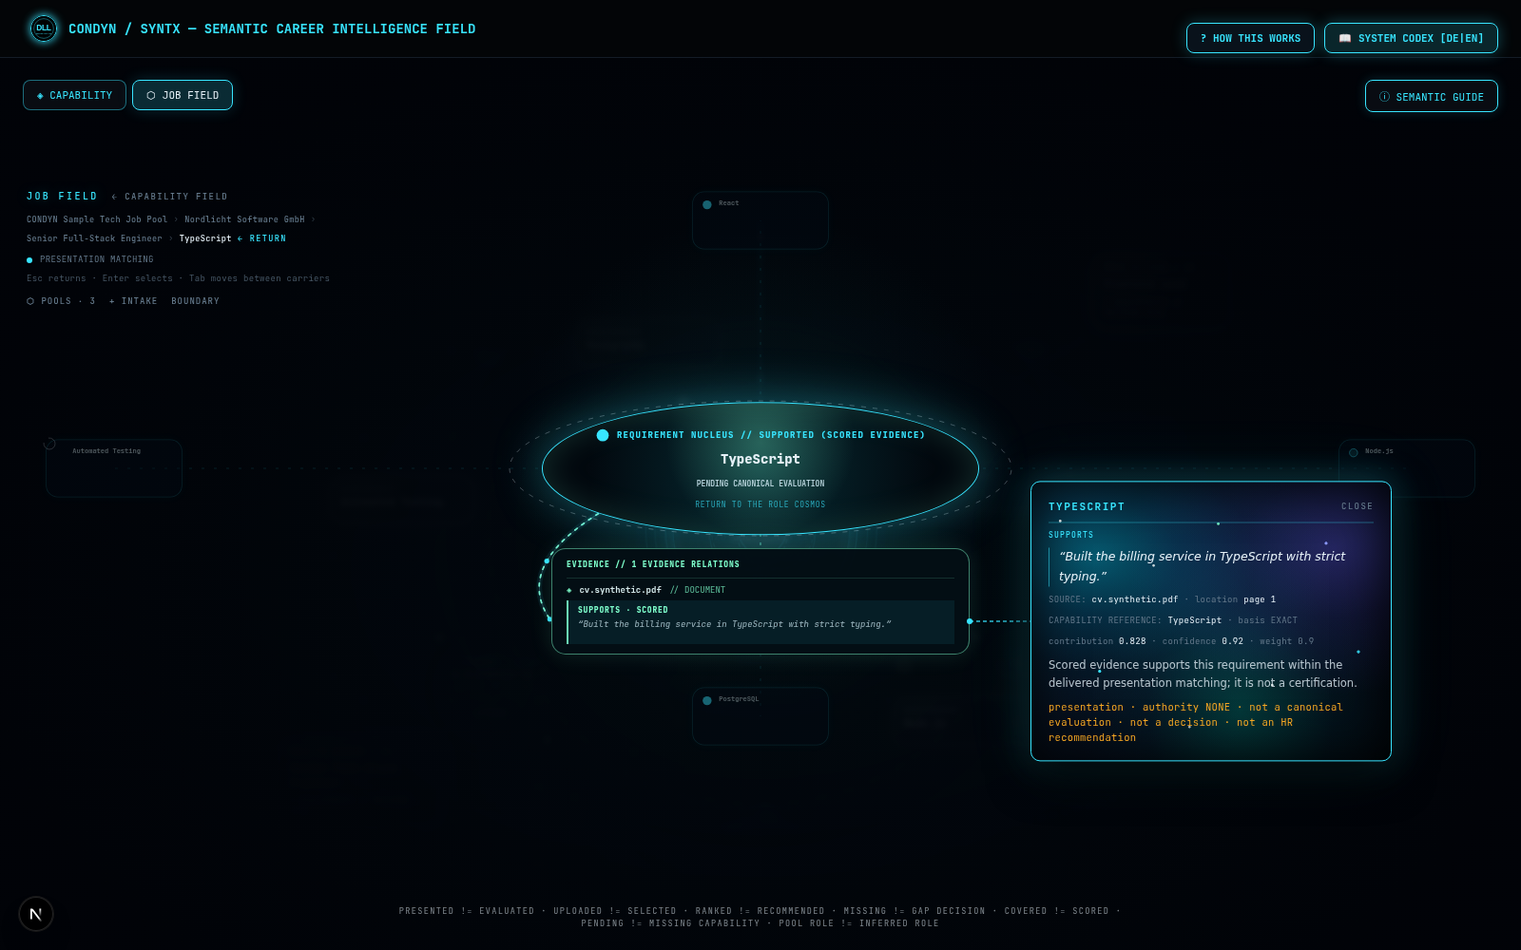
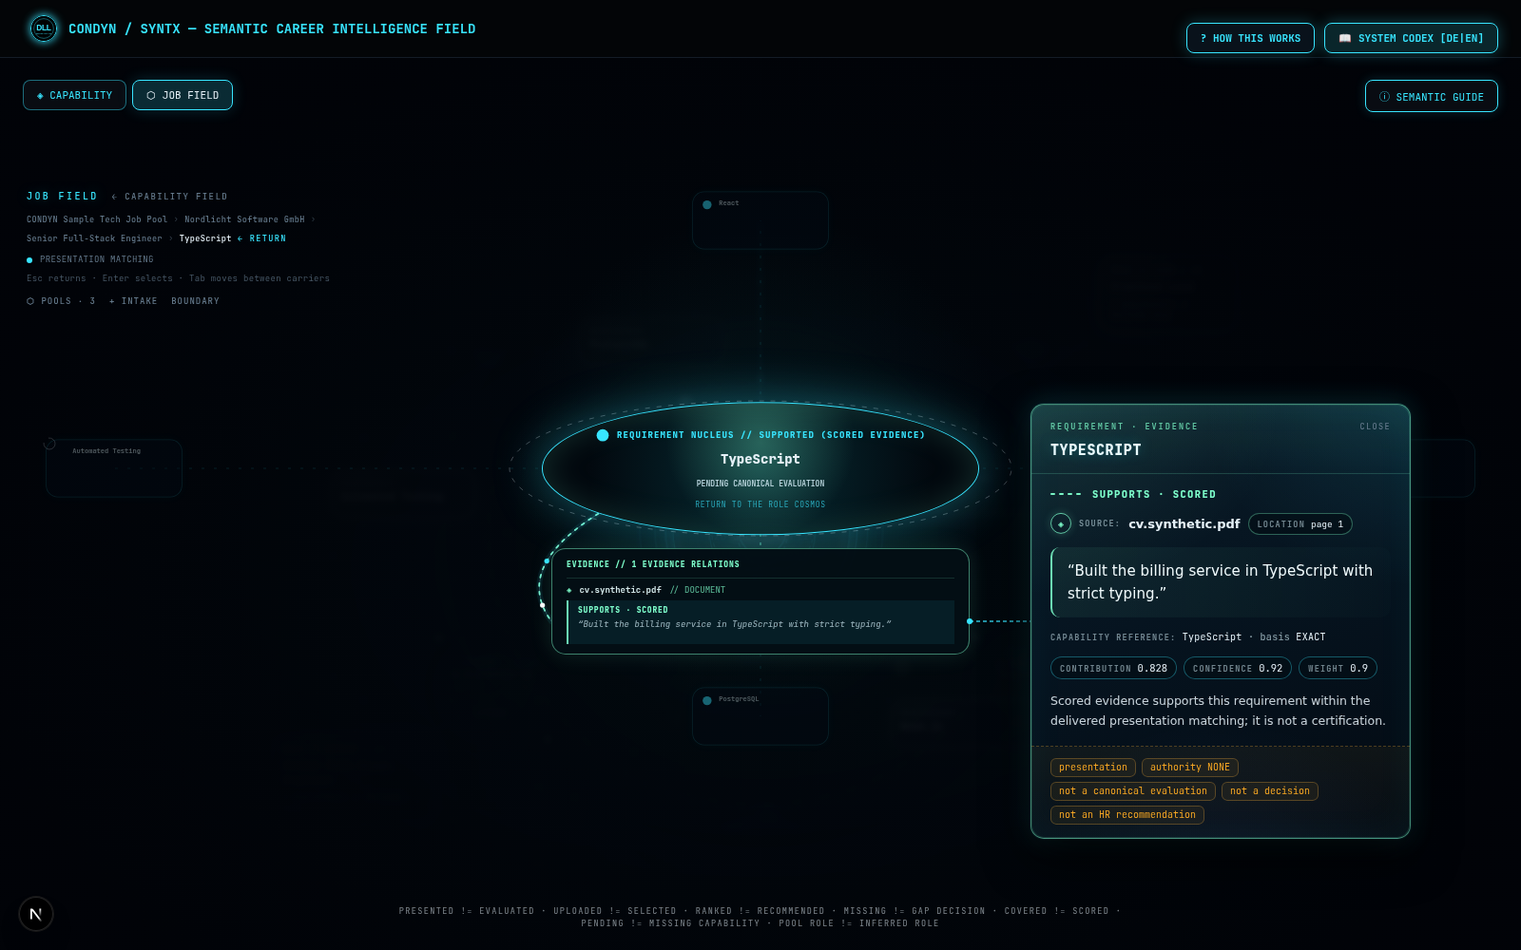
feat(career): SYNTX evidence aperture as a layered hologram surface (owner refinement; visual only)
The inspection aperture becomes a calm hologram surface: rounded HUD, fine mint / cyan frame, atmospheric interior and
a glow layer that breathes (opacity only; the reading surface holds still). Its content is layered: head (the
requirement or role it belongs to), relation line (stroke sample + relation · scored / unscored), source line (glyph,
document, location chip), the quote as its own reading space, micro-metric chips, the explanation, and a separated
boundary zone carrying the authority statement. Ids, states, texts, data, keyboard and click logic are unchanged.

Proofs: job-pool batch 18 files / 114; workflow e2e 10/10; PINK walk with the proposed rebinding 3/3.
Before / after: docs/career_analysis/evidence/job-pool/semiotic-transfer/aperture/. No integration.

Changed region(s): [[0.6562, 0.403, 0.9375, 0.899]]

diff --git a/app/components/career/demo/SyntxField.tsx b/app/components/career/demo/SyntxField.tsx
@@ -143,6 +143,7 @@ ${SYNTX_CORE_KEYFRAMES}
 ${SYNTX_FOCUS_PULSE_KEYFRAMES}
 @keyframes rotateClockwise { 0% { transform: rotate(0deg); } 100% { transform: rotate(360deg); } }
 @keyframes sxEnter { from { opacity: 0; } to { opacity: 1; } }
+@keyframes sxApertureBreathe { 0%, 100% { opacity: .55; } 50% { opacity: 1; } }
 @keyframes sxRise { from { opacity: 0; } to { opacity: 1; } }
 @keyframes sxSuspend { to { stroke-dashoffset: -120; } }
 @keyframes sxUnfold { from { opacity: 0; transform: scale(.62); } to { opacity: 1; transform: scale(1); } }
@@ -961,7 +962,7 @@ function FieldStage({ field, mode, t, locale, onObserve, size }: LayerProps) {
 /** Where the inspection aperture attaches: the evidence row of the inspected relation, or the suspended boundary of the role. */
 function apertureAnchor(field: SyntxFieldModel, size: { width: number; height: number }, focus: SyntxEvidenceRows | null, scrollTop: number): ApertureAnchor {
   const aperture = field.aperture;
-  const roomRight = (x: number) => size.width - x - 64 - 380 - SYNTX_MARGIN >= 0;
+  const roomRight = (x: number) => size.width - x - 64 - APERTURE_WIDTH - SYNTX_MARGIN >= 0;
   if (aperture !== null && focus !== null) {
     const { surface, rows, layout } = focus;
     const inspected = aperture.inspects;
@@ -982,14 +983,52 @@ function apertureAnchor(field: SyntxFieldModel, size: { width: number; height: n
  * EVIDENCE · the inspection aperture as the planetarium's hologram HUD on its tether (a reading surface: it holds still)
  * ================================================================================================================ */
 
+/** The aperture: a calm hologram surface (rounded HUD, fine mint / cyan frame, atmospheric interior) in semantic layers. */
+const APERTURE_WIDTH = 400;
+const APERTURE_SURFACE: React.CSSProperties = {
+  position: "absolute",
+  width: `${APERTURE_WIDTH}px`,
+  boxSizing: "border-box",
+  borderRadius: "14px",
+  border: "1px solid rgba(126, 255, 204, 0.5)",
+  background: "radial-gradient(120% 80% at 0% 0%, rgba(126, 255, 204, 0.1), transparent 55%), radial-gradient(90% 70% at 100% 0%, rgba(56, 229, 255, 0.1), transparent 60%), radial-gradient(80% 60% at 50% 115%, rgba(107, 142, 255, 0.08), transparent 70%), linear-gradient(160deg, #0a1d29 0%, #061420 45%, #030a12 100%)",
+  boxShadow: "0 18px 48px rgba(0, 0, 0, 0.85), 0 0 0 1px rgba(56, 229, 255, 0.1), 0 0 28px rgba(56, 229, 255, 0.18), inset 0 0 40px rgba(56, 229, 255, 0.05)",
+  color: INK,
+  fontFamily: MONO,
+  textAlign: "left",
+  WebkitFontSmoothing: "antialiased",
+  isolation: "isolate"
+};
+const apertureKicker: React.CSSProperties = { fontFamily: MONO, fontSize: "8.5px", fontWeight: 700, letterSpacing: "2px", textTransform: "uppercase", color: "rgba(126, 255, 204, 0.72)" };
+const apertureLabel: React.CSSProperties = { fontFamily: MONO, fontSize: "8.5px", fontWeight: 700, letterSpacing: "1.2px", textTransform: "uppercase", color: "rgba(206, 232, 241, 0.55)" };
+const apertureChip = (tone: string, dashed = false): React.CSSProperties => ({ display: "inline-flex", alignItems: "baseline", gap: "6px", padding: "4px 9px", borderRadius: "999px", border: `1px ${dashed ? "dashed" : "solid"} ${tone}`, background: "rgba(3, 14, 22, 0.7)", fontFamily: MONO, fontSize: "10.5px", color: INK, whiteSpace: "nowrap" });
+/** The relation of the inspected sign as its own line: the stroke it is drawn with, the relation, scored or unscored. */
+function ApertureRelation({ kind, label: text, tone }: { kind: SyntxTrace["kind"] | "missing_support" | "pending_evaluation"; label: string; tone: string }) {
+  const stroke = kind === "supports" || kind === "weakly_supports" || kind === "covers_unscored" ? TRACE_STROKE[kind] : null;
+  return (
+    <div style={{ display: "flex", alignItems: "center", gap: "10px" }}>
+      <svg aria-hidden="true" width={34} height={10} style={{ flexShrink: 0, overflow: "visible" }}>
+        {stroke !== null
+          ? <line x1={1} y1={5} x2={33} y2={5} stroke={stroke.lit} strokeWidth={stroke.width + 0.6} strokeDasharray={stroke.dash} strokeLinecap="round" />
+          : <path d={kind === "missing_support" ? openArc(17, 5, 4.5, 90) : "M 1 5 L 33 5"} fill="none" stroke={NEUTRAL} strokeWidth={1.2} strokeDasharray={kind === "pending_evaluation" ? "5 4" : undefined} strokeLinecap="round" />}
+      </svg>
+      <span style={{ fontFamily: MONO, fontSize: "10.5px", fontWeight: 800, letterSpacing: "1.4px", textTransform: "uppercase", color: tone }}>{text}</span>
+    </div>
+  );
+}
+
 function Aperture({ aperture, field, t, anchor, onClose }: { aperture: SyntxAperture; field: SyntxFieldModel; t: SyntxCopy; anchor: ApertureAnchor; onClose(): void }) {
   const observedRole = field.roles.find(role => role.id === field.observation.roleId) ?? null;
   const content = aperture.inspects;
-  const hudLeft = anchor.side === "right" ? anchor.x + 64 : anchor.x - 64 - 380;
+  const hudLeft = anchor.side === "right" ? anchor.x + 64 : anchor.x - 64 - APERTURE_WIDTH;
+  const left = Math.max(SYNTX_MARGIN, hudLeft);
+  const authorityParts = t.authority.split(" · ");
+  const unscored = content.kind === "trace" && content.trace.kind === "covers_unscored";
+  const relationTone = content.kind !== "trace" ? NEUTRAL : unscored ? "rgba(142, 239, 255, 0.95)" : MINT;
   return (
     <>
       <svg data-sx-aperture-tether aria-hidden="true" style={{ position: "absolute", inset: 0, width: "100%", height: "100%", pointerEvents: "none", zIndex: 39, overflow: "visible" }}>
-        <line x1={anchor.x} y1={anchor.y} x2={anchor.side === "right" ? hudLeft : hudLeft + 380} y2={anchor.y} stroke={CYAN} strokeWidth={1.5} strokeDasharray="4 3" opacity={0.85} />
+        <line x1={anchor.x} y1={anchor.y} x2={anchor.side === "right" ? left : left + APERTURE_WIDTH} y2={anchor.y} stroke={CYAN} strokeWidth={1.5} strokeDasharray="4 3" opacity={0.85} />
         <circle cx={anchor.x} cy={anchor.y} r={3} fill={CYAN} />
       </svg>
       <aside
@@ -1002,46 +1041,73 @@ function Aperture({ aperture, field, t, anchor, onClose }: { aperture: SyntxAper
         role="dialog"
         aria-label={t.inspect}
         onClick={event => event.stopPropagation()}
-        style={{ ...SYNTX_HUD_SURFACE, left: `${Math.max(SYNTX_MARGIN, hudLeft)}px`, top: `${anchor.y}px`, transform: "translateY(-50%)", maxHeight: "72%", overflowY: "auto", zIndex: 40, ...stack(8) }}
+        style={{ ...APERTURE_SURFACE, left: `${left}px`, top: `${anchor.y}px`, transform: "translateY(-50%)", maxHeight: "74%", overflowY: "auto", zIndex: 40 }}
       >
-        <div style={{ ...hudTitle, marginBottom: 0 }}>
-          <span>{aperture.requirement !== null ? aperture.requirement.name : observedRole?.title ?? ""}</span>
-          <button data-testid="syntx-aperture-close" onClick={onClose} style={action("muted")}>{t.close}</button>
-        </div>
-      {content.kind === "trace" && (
-        <div style={stack(8)}>
-          <span style={{ ...word(CYAN), whiteSpace: "normal" }}>{t.relation[content.trace.kind]}</span>
-          <p data-testid="syntx-aperture-quote" style={{ ...prose, fontStyle: "italic", color: INK, paddingLeft: "10px", borderLeft: `1px ${content.trace.kind === "covers_unscored" ? "dashed" : "solid"} rgba(56, 229, 255, 0.5)` }}>“{content.trace.quote}”</p>
-          <span data-testid="syntx-aperture-source" data-source-title-state={content.trace.sourceTitleState} style={micro}>
-            {t.source}: <span style={{ color: INK }}>{content.trace.sourceTitle ?? (content.trace.sourceTitleState === "NOT_READ" ? t.sourceNotRead : t.sourceUnresolved)}</span>
-            {content.trace.location !== null && <> · {t.location} <span style={{ color: INK }}>{content.trace.location}</span></>}
-          </span>
-          <span style={micro}>{t.capabilityReference}: <span style={{ color: INK }}>{content.trace.capabilityName}</span>{content.trace.matchedConstituent !== null ? ` · ${t.constituent} ${content.trace.matchedConstituent}` : ""} · {t.basis} {content.trace.basis}</span>
-          {content.trace.contribution !== null && content.trace.confidence !== null && (
-            <span data-testid="syntx-aperture-contribution" style={micro}>{t.contribution} <span style={{ color: INK }}>{content.trace.contribution}</span> · {t.confidence} <span style={{ color: INK }}>{content.trace.confidence}</span>{aperture.requirement?.weight !== null && aperture.requirement?.weight !== undefined ? ` · ${t.weight} ${aperture.requirement.weight}` : ""}</span>
+        {/* The surface breathes: its glow alone rises and falls (no movement — the reading surface holds still). */}
+        <span data-sx-aperture-glow aria-hidden="true" style={{ position: "absolute", inset: 0, borderRadius: "14px", pointerEvents: "none", boxShadow: "0 0 34px rgba(126, 255, 204, 0.16), inset 0 0 0 1px rgba(126, 255, 204, 0.18)", animation: "sxApertureBreathe 7s ease-in-out infinite", zIndex: -1 }} />
+
+        {/* Head: what is inspected — the requirement (or the role) it belongs to. */}
+        <header style={{ padding: "15px 20px 13px", borderBottom: "1px solid rgba(126, 255, 204, 0.16)", background: "linear-gradient(180deg, rgba(126, 255, 204, 0.06), transparent)", borderRadius: "14px 14px 0 0" }}>
+          <div style={{ display: "flex", justifyContent: "space-between", alignItems: "center", gap: "12px" }}>
+            <span style={apertureKicker}>{content.kind === "pending" ? t.manifest.role : t.manifest.requirement}{content.kind === "trace" ? ` · ${t.manifest.evidence}` : ""}</span>
+            <button data-testid="syntx-aperture-close" onClick={onClose} style={{ ...action("muted"), fontSize: "8.5px", padding: "2px 0" }}>{t.close}</button>
+          </div>
+          <div style={{ marginTop: "8px", fontFamily: MONO, fontSize: "15px", fontWeight: 800, letterSpacing: "0.6px", lineHeight: 1.3, textTransform: "uppercase", color: "#e9fbff", textShadow: `0 0 14px ${SIL_TOKENS.colors.cyanGlowStrong}` }}>{aperture.requirement !== null ? aperture.requirement.name : observedRole?.title ?? ""}</div>
+        </header>
+
+        <div style={{ padding: "14px 20px 16px", ...stack(13) }}>
+          {content.kind === "trace" && (
+            <>
+              <ApertureRelation kind={content.trace.kind} label={`${t.relation[content.trace.kind]} · ${unscored ? t.manifest.unscored : t.manifest.scored}`} tone={relationTone} />
+              <span data-testid="syntx-aperture-source" data-source-title-state={content.trace.sourceTitleState} style={{ display: "flex", alignItems: "center", flexWrap: "wrap", gap: "8px" }}>
+                <span aria-hidden="true" style={{ width: "22px", height: "22px", borderRadius: "50%", border: `1px ${unscored ? "dashed" : "solid"} rgba(126, 255, 204, 0.75)`, display: "inline-flex", alignItems: "center", justifyContent: "center", color: MINT, fontSize: "10px", boxShadow: "0 0 10px rgba(126, 255, 204, 0.2)", flexShrink: 0 }}>◈</span>
+                <span style={apertureLabel}>{t.source}:</span>
+                <span style={{ fontFamily: SANS, fontSize: "13px", fontWeight: 600, color: INK }}>{content.trace.sourceTitle ?? (content.trace.sourceTitleState === "NOT_READ" ? t.sourceNotRead : t.sourceUnresolved)}</span>
+                {content.trace.location !== null && <span style={{ ...apertureChip("rgba(126, 255, 204, 0.35)"), fontSize: "9.5px" }}><span style={apertureLabel}>{t.location}</span>{content.trace.location}</span>}
+              </span>
+              <p data-testid="syntx-aperture-quote" style={{ margin: 0, padding: "13px 16px", borderRadius: "10px", borderLeft: `2px ${unscored ? "dashed" : "solid"} ${unscored ? "rgba(142, 239, 255, 0.7)" : "rgba(126, 255, 204, 0.85)"}`, background: "linear-gradient(90deg, rgba(126, 255, 204, 0.07), rgba(126, 255, 204, 0.015))", fontFamily: SANS, fontSize: "15px", lineHeight: 1.6, color: "#f1fbfd", letterSpacing: "0.1px" }}>“{content.trace.quote}”</p>
+              <span style={{ ...micro, fontSize: "10px", color: "rgba(206, 232, 241, 0.7)" }}><span style={apertureLabel}>{t.capabilityReference}:</span> <span style={{ color: INK }}>{content.trace.capabilityName}</span>{content.trace.matchedConstituent !== null ? ` · ${t.constituent} ${content.trace.matchedConstituent}` : ""} · {t.basis} <span style={{ color: INK }}>{content.trace.basis}</span></span>
+              {content.trace.contribution !== null && content.trace.confidence !== null && (
+                <span data-testid="syntx-aperture-contribution" style={{ display: "flex", flexWrap: "wrap", gap: "7px" }}>
+                  <span style={apertureChip("rgba(56, 229, 255, 0.35)")}><span style={apertureLabel}>{t.contribution}</span> {content.trace.contribution}</span>
+                  <span style={apertureChip("rgba(56, 229, 255, 0.35)")}><span style={apertureLabel}>{t.confidence}</span> {content.trace.confidence}</span>
+                  {aperture.requirement?.weight !== null && aperture.requirement?.weight !== undefined && <span style={apertureChip("rgba(56, 229, 255, 0.35)")}><span style={apertureLabel}>{t.weight}</span> {aperture.requirement.weight}</span>}
+                </span>
+              )}
+              {unscored && <span data-testid="syntx-aperture-sweep-status" data-scored="false" style={{ ...apertureChip("rgba(142, 239, 255, 0.6)", true), alignSelf: "flex-start", fontSize: "9.5px", color: "rgba(142, 239, 255, 0.95)", whiteSpace: "normal" }}>{t.sweepStatus}</span>}
+              <p style={{ ...prose, fontSize: "12.5px", color: "rgba(230, 241, 248, 0.86)" }}>{content.trace.kind === "supports" ? t.texts.scored : content.trace.kind === "weakly_supports" ? t.texts.weak : t.texts.sweep}</p>
+              {content.trace.weakReason !== null && <span style={{ ...micro, fontSize: "10px", color: AMBER }}>{content.trace.weakReason}</span>}
+            </>
           )}
-          {content.trace.kind === "covers_unscored" && <span data-testid="syntx-aperture-sweep-status" data-scored="false" style={{ ...micro, color: "rgba(56, 229, 255, 0.8)" }}>{t.sweepStatus}</span>}
-          <p style={{ ...prose, fontSize: "11.5px" }}>{content.trace.kind === "supports" ? t.texts.scored : content.trace.kind === "weakly_supports" ? t.texts.weak : t.texts.sweep}</p>
-          {content.trace.weakReason !== null && <span style={{ ...micro, color: AMBER }}>{content.trace.weakReason}</span>}
+          {content.kind === "open" && (
+            <>
+              <ApertureRelation kind="missing_support" label={t.relation.missing_support} tone={NEUTRAL} />
+              <p data-testid="syntx-aperture-open-text" style={{ ...prose, fontSize: "14px", lineHeight: 1.6, color: "#eef8fb" }}>{t.texts.missing}</p>
+              {content.requirement.evidenceHint !== null && <span style={{ ...micro, fontSize: "10px" }}><span style={apertureLabel}>{t.hint}:</span> <span style={{ color: INK }}>{content.requirement.evidenceHint}</span></span>}
+              <span style={{ ...micro, fontSize: "10px", color: "rgba(206, 232, 241, 0.7)" }}>{content.requirement.necessity ?? ""}{content.requirement.weight !== null ? ` · ${t.weight} ${content.requirement.weight}` : ""}{content.requirement.requiredLevel !== null ? ` · ${t.level} ${content.requirement.requiredLevel}` : ""}</span>
+            </>
+          )}
+          {content.kind === "pending" && (
+            <>
+              <ApertureRelation kind="pending_evaluation" label={t.relation.pending_evaluation} tone={NEUTRAL} />
+              <p data-testid="syntx-aperture-pending-text" style={{ ...prose, fontSize: "14px", lineHeight: 1.6, color: "#eef8fb" }}>{t.texts.pending}</p>
+              <span style={{ ...micro, fontSize: "10px", color: "rgba(206, 232, 241, 0.7)" }}>{content.boundary.targetRoleProfileRevisionId} · {content.boundary.targetRequirementRevisionIds.length} TRQREV</span>
+              {observedRole?.matching && <span data-testid="syntx-aperture-resonance" data-resonance-score={observedRole.matching.resonanceScore} style={{ display: "flex", flexWrap: "wrap", gap: "7px" }}><span style={apertureChip("rgba(56, 229, 255, 0.35)")}><span style={apertureLabel}>{t.resonance}</span> {percent(observedRole.matching.resonanceScore)}</span> <span style={apertureChip("rgba(56, 229, 255, 0.35)")}><span style={apertureLabel}>{t.rank}</span> #{observedRole.matching.deliveredRank}</span></span>}
+            </>
+          )}
         </div>
-      )}
-      {content.kind === "open" && (
-        <div style={stack(6)}>
-          <span style={{ ...word(NEUTRAL), whiteSpace: "normal" }}>{t.relation.missing_support}</span>
-          <p data-testid="syntx-aperture-open-text" style={prose}>{t.texts.missing}</p>
-          {content.requirement.evidenceHint !== null && <span style={micro}>{t.hint}: {content.requirement.evidenceHint}</span>}
-          <span style={micro}>{content.requirement.necessity ?? ""}{content.requirement.weight !== null ? ` · ${t.weight} ${content.requirement.weight}` : ""}{content.requirement.requiredLevel !== null ? ` · ${t.level} ${content.requirement.requiredLevel}` : ""}</span>
-        </div>
-      )}
-      {content.kind === "pending" && (
-        <div style={stack(6)}>
-          <span style={{ ...word(NEUTRAL), whiteSpace: "normal" }}>{t.relation.pending_evaluation}</span>
-          <p data-testid="syntx-aperture-pending-text" style={prose}>{t.texts.pending}</p>
-          <span style={micro}>{content.boundary.targetRoleProfileRevisionId} · {content.boundary.targetRequirementRevisionIds.length} TRQREV</span>
-          {observedRole?.matching && <span data-testid="syntx-aperture-resonance" data-resonance-score={observedRole.matching.resonanceScore} style={micro}>{t.resonance} <span style={{ color: INK }}>{percent(observedRole.matching.resonanceScore)}</span> · {t.rank} #{observedRole.matching.deliveredRank}</span>}
-        </div>
-      )}
-        <span data-testid="syntx-aperture-authority" style={{ ...micro, color: AMBER, fontSize: "10.5px", lineHeight: 1.5 }}>{t.authority}</span>
+
+        {/* Boundary zone: the authority statement, separated from the evidence it qualifies. */}
+        <footer style={{ padding: "12px 20px 14px", borderTop: "1px dashed rgba(255, 179, 56, 0.32)", background: "linear-gradient(180deg, rgba(255, 179, 56, 0.05), rgba(255, 179, 56, 0.015))", borderRadius: "0 0 14px 14px" }}>
+          <span data-testid="syntx-aperture-authority" style={{ display: "flex", flexWrap: "wrap", alignItems: "center", gap: "5px 6px", fontFamily: MONO, fontSize: "10px", lineHeight: 1.4, color: AMBER }}>
+            {authorityParts.map((part, index) => (
+              <React.Fragment key={part}>
+                {index > 0 && <span style={visuallyHidden}> · </span>}
+                <span style={{ padding: "2px 8px", borderRadius: "6px", border: "1px solid rgba(255, 179, 56, 0.28)", background: "rgba(255, 179, 56, 0.06)" }}>{part}</span>
+              </React.Fragment>
+            ))}
+          </span>
+        </footer>
       </aside>
     </>
   );

diff --git a/docs/career_analysis/JOB_FIELD_FRONTEND.md b/docs/career_analysis/JOB_FIELD_FRONTEND.md
@@ -750,3 +750,4 @@ observation point. Readable labels wrap at word boundaries (`wrapLines`), never 
 | 2026-10-12 | Final deep-focus delta (owner mandate "SFE — GREEN · FINAL DEEP-FOCUS DELTA", on dac4bf0; GREEN only, isolated lab, same populated reference session) | the Capability Field's deep-focus transformation is reused for the whole ecology (recede blur(3px) grayscale(86%) / scale .72, focus 1.12, .78 s; anchors settle as deep-focus satellites .62 → 1, .72 s); the carrier float is replaced by the cosmos's `OrbitalSatelliteMotion` (shared rAF clock, ellipse 14 × 9, 60 s per turn) and its link and traces are recomputed from that position every frame (probe over 6 s: carrier x/y and trace end coincide to 0.1 field units in every sample). Side-by-side 16 s from one populated session: `capability-vs-jobfield.webm` | view model 14/14 · SSR 7/7 · governance 10/10 + 4/4 · e2e 10/10 · PINK walk: all scenarios green except the Q-06 ROLE-name assertion (`sxMoonOrbit`, R15; expected) · tsc 0 · sealed files byte-identical |
 | 2026-10-12 | Concrete visual correction (owner mandate "GREEN — CONCRETE VISUAL CORRECTION", on 7bda76a; GREEN only, same populated reference session) | nucleus ×1.5 with the L2 nucleus materials and one resonance region; ecology radii ×1.3 (categories, order, camera scales unchanged; nucleus kept in the REQUIREMENT framing); evidence straight beneath the nucleus and satellites fanned from the top (the regression the e2e caught on the first attempt — a short trace buried in a converging bundle, 0 owned pointer points — is gone: 7 / 11 / 14 / 14); traces as screen-constant filaments with a faint halo, photons and beads in screen pixels, emphasis on the selected anchor. View-model expectation "a single trace stays straight" replaced by the clearance it stands for. Comparison: `capability-vs-jobfield.webm` (21 s, L2 deep focus left, Job Field REQUIREMENT → EVIDENCE right, one session) | view model 14/14 · SSR 7/7 · governance 10/10 + 4/4 · e2e 10/10 · PINK walk: all scenarios green except the Q-06 ROLE-name assertion (`sxMoonOrbit`, R15; expected) · tsc 0 · sealed files byte-identical |
 | 2026-10-12 | Semiotic transfer (owner "GRÜN — SYNTX SEMIOTIC TRANSFER", GO for variant A; on 5898def = 9e86d44 + plan 1.9.0; GREEN only, isolated lab) | §13.2.3: seven domain-neutral manifestation components extracted from the Capability Field (374/374 renders byte-identical); the Job Field rebuilt on them as planetarium → organization cosmos → role cosmos → requirement deep focus → evidence HUD; organizations first (roles as moons); scored/unscored separated per row and curve; scale check with 16 organizations / 53 roles / 191 requirements. Findings fixed on the way: keyframe text inside the stage (now at the field root), zero-size sign wrappers (now real extents), colliding test-id prefixes (renamed), floating aperture (now still), global button ripple (suppressed in the field) | tsc 0; unit/SSR/governance/sealed SIL/Capability batch 40 files / 230; workflow e2e 10/10; PINK walk unchanged 0/3 (expected: Q-01 role buttons, Q-06 camera, focus tag); PINK walk with the proposed rebinding 3/3 |
+| 2026-10-12 | Evidence aperture refinement (owner "Die Evidenz-Apertur … veredeln"; visual / semiotic only, on ca11794; GREEN only, isolated lab) | the inspection aperture as a calm hologram surface: rounded HUD with a fine mint / cyan frame and atmospheric interior, a glow layer that breathes (`sxApertureBreathe` 7 s, opacity only — the surface holds still), and semantic layers: head (requirement or role), relation line (stroke sample + relation · scored / unscored), source line (glyph, title, location chip), the quote as its own reading space, micro-metric chips (contribution, confidence, weight; resonance and rank in the pending aperture), explanation, and a separated boundary zone with the authority statement as chips (text unchanged). Ids, states, texts, data, keyboard and click logic unchanged. Before / after: `evidence/job-pool/semiotic-transfer/aperture/` | job-pool batch 18 files / 114; workflow e2e 10/10; PINK walk with the proposed rebinding 3/3 |

diff --git a/docs/career_analysis/proposals/SYNTX_SEMIOTIC_TRANSFER_PROPOSALS.md b/docs/career_analysis/proposals/SYNTX_SEMIOTIC_TRANSFER_PROPOSALS.md
@@ -44,6 +44,7 @@ closed list (LIVE only; REDUCED total — no CSS animation, no SMIL photon, the 
 | cosmos satellites (rAF, periods 130 s + 35 s per orbit) | the roles of the observed organization | continuous, shared clock |
 | role cosmos rotation (rAF, 160 s, all orbits together) | requirements, source documents and their traces (recomputed every frame; `data-orbital-motion-*` on each source body) | continuous, shared clock |
 | `sxSuspend` (48 s dash drift) | the one suspended boundary | infinite (as R15) |
+| `sxApertureBreathe` (7 s, opacity of the glow layer only) | the open inspection aperture (the surface itself holds still) | infinite |
 | `sxEnter`, `sxRise`, `sxUnfold`, `sxTraceDraw`, `sxSuspendEnter`, `sxNucleusSettle`, `sxSatelliteSettle` | level entry, requirement unfold, trace rise, deep-focus settle | finite |
 
 No longer emitted: `sxOrbit`, `sxBreathe`, `sxMoonOrbit`, `sxAtmosphere`, `sxRingPulse`, `sxSettle`, `sxRecenter`,
